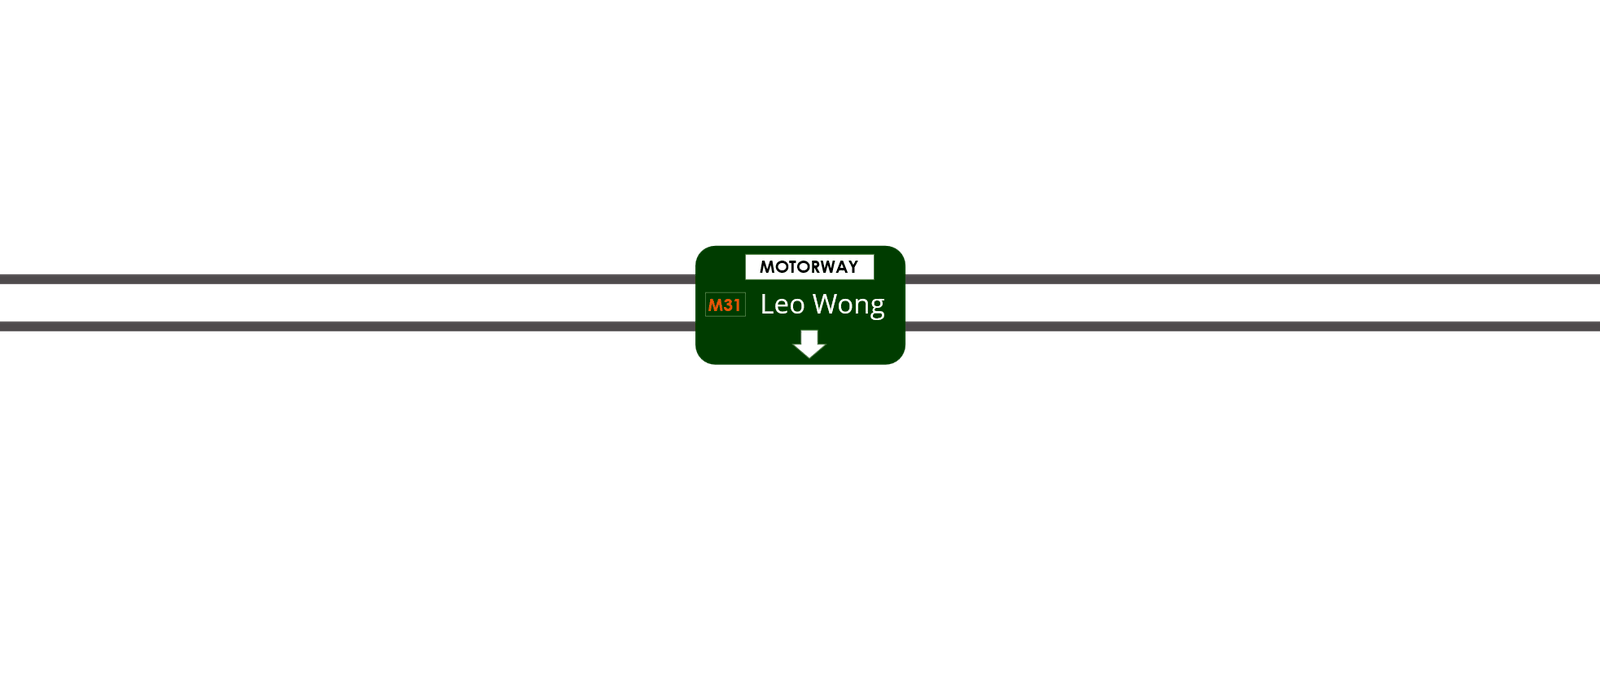
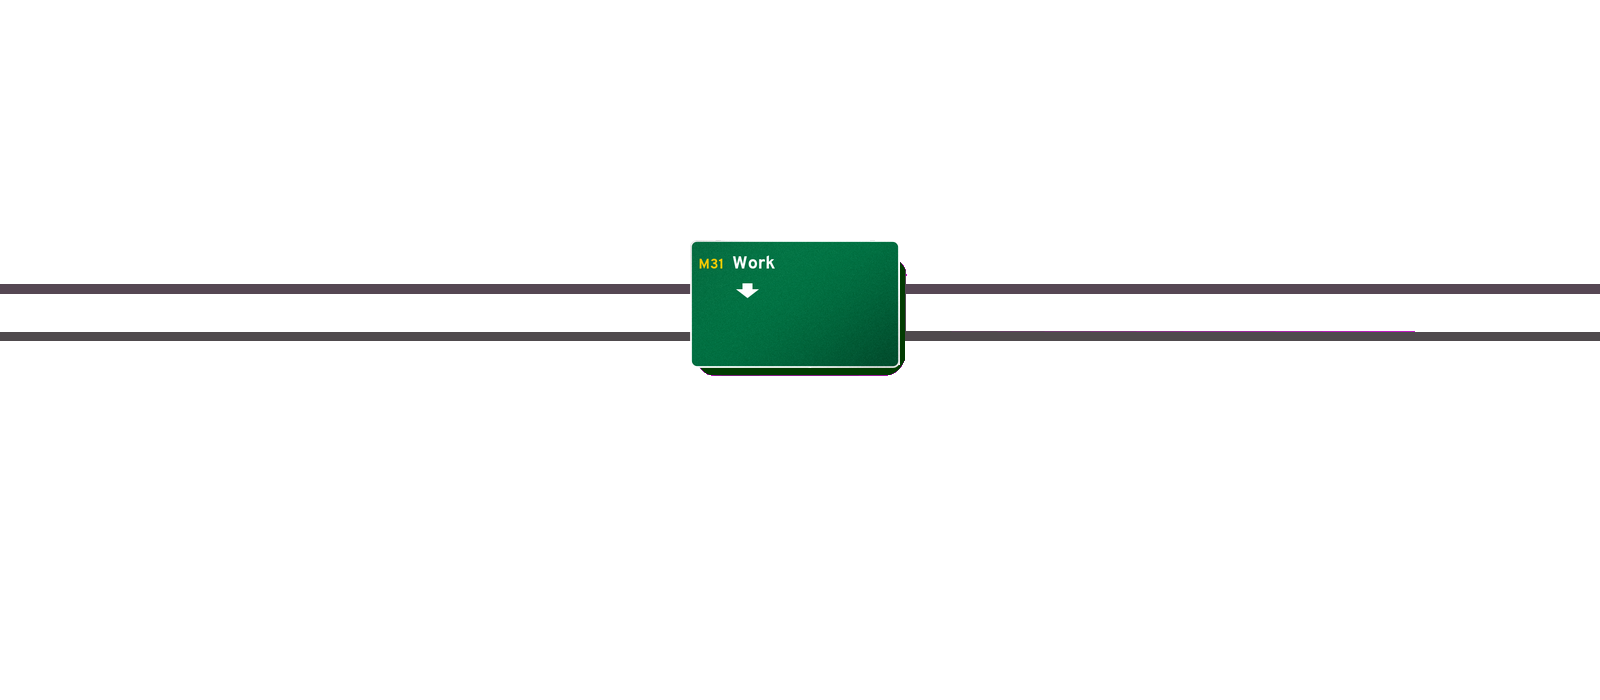
Smooth the original scene, real NSW signs, and a taller cabin.
Vectorise the bootcamp mountain/motorway/road layers for crisp 1×/2×
WebP+PNG, redraw the gantry and roadside signs as AS 1742-style TfNSW
green plates (Work with yellow M31, Sydney 1 km), and replace only the
car layer with a wide MPV cabin in the same flat RHD palette. Parallax
travel is deeper with scale on near layers; the frosted full-bleed header
is unchanged. Sign words are paint in the art, not links — header nav
still carries About / Work / Contact.

Changed region(s): [[0.0, 0.3397, 1.0, 0.5559]]

diff --git a/src/Scene.tsx b/src/Scene.tsx
@@ -1,10 +1,78 @@
-import { motion, useReducedMotion, useScroll, useTransform } from "motion/react";
+import {
+  motion,
+  useReducedMotion,
+  useScroll,
+  useTransform,
+  type MotionValue,
+} from "motion/react";
 import { useState, type RefObject } from "react";
 
-const mountain = "/bg/mountain.png";
-const motorway = "/bg/motorway.png";
-const roadArt = "/bg/road.png";
-const carArt = "/bg/car.png";
+type LayerSources = {
+  readonly webp: string;
+  readonly webp2x: string;
+  readonly png: string;
+  readonly png2x: string;
+};
+
+const mountain: LayerSources = {
+  webp: "/bg/mountain.webp",
+  webp2x: "/bg/mountain@2x.webp",
+  png: "/bg/mountain.png",
+  png2x: "/bg/mountain@2x.png",
+};
+const motorway: LayerSources = {
+  webp: "/bg/motorway.webp",
+  webp2x: "/bg/motorway@2x.webp",
+  png: "/bg/motorway.png",
+  png2x: "/bg/motorway@2x.png",
+};
+const roadArt: LayerSources = {
+  webp: "/bg/road.webp",
+  webp2x: "/bg/road@2x.webp",
+  png: "/bg/road.png",
+  png2x: "/bg/road@2x.png",
+};
+const carArt: LayerSources = {
+  webp: "/bg/car.webp",
+  webp2x: "/bg/car@2x.webp",
+  png: "/bg/car.png",
+  png2x: "/bg/car@2x.png",
+};
+
+function SceneLayer({
+  sources,
+  y,
+  scale,
+  extend,
+}: {
+  sources: LayerSources;
+  y: MotionValue<number>;
+  scale?: MotionValue<number>;
+  extend?: boolean;
+}) {
+  return (
+    <motion.div
+      className="scene-layer"
+      style={scale !== undefined ? { y, scale } : { y }}>
+      <picture>
+        <source
+          type="image/webp"
+          srcSet={`${sources.webp} 1x, ${sources.webp2x} 2x`}
+        />
+        <img
+          src={sources.png}
+          srcSet={`${sources.png} 1x, ${sources.png2x} 2x`}
+          width={1600}
+          height={700}
+          alt=""
+          decoding="async"
+          draggable={false}
+        />
+      </picture>
+      {extend ? <span className="scene-car-extend" aria-hidden="true" /> : null}
+    </motion.div>
+  );
+}
 
 export function Scene({ target }: { target: RefObject<HTMLElement | null> }) {
   const reduce = useReducedMotion() === true;
@@ -14,18 +82,22 @@ export function Scene({ target }: { target: RefObject<HTMLElement | null> }) {
     offset: ["start start", "end start"],
   });
   const still = reduce || stopped ? 0 : 1;
-  const far = useTransform(scrollYProgress, [0, 1], [0, -80 * still]);
-  const sign = useTransform(scrollYProgress, [0, 1], [0, -160 * still]);
-  const road = useTransform(scrollYProgress, [0, 1], [0, -260 * still]);
-  const car = useTransform(scrollYProgress, [0, 1], [0, -380 * still]);
+  // Dramatic depth: mountain slowest, car fastest; slight scale on near layers.
+  const far = useTransform(scrollYProgress, [0, 1], [0, -120 * still]);
+  const farScale = useTransform(scrollYProgress, [0, 1], [1, 1 + 0.03 * still]);
+  const sign = useTransform(scrollYProgress, [0, 1], [0, -300 * still]);
+  const road = useTransform(scrollYProgress, [0, 1], [0, -520 * still]);
+  const roadScale = useTransform(scrollYProgress, [0, 1], [1, 1 + 0.06 * still]);
+  const car = useTransform(scrollYProgress, [0, 1], [0, -720 * still]);
+  const carScale = useTransform(scrollYProgress, [0, 1], [1, 1 + 0.08 * still]);
 
   return (
     <div className="illustration">
       <div className="scene" aria-hidden="true">
-        <motion.img src={mountain} alt="" style={{ y: far }} />
-        <motion.img src={motorway} alt="" style={{ y: sign }} />
-        <motion.img src={roadArt} alt="" style={{ y: road }} />
-        <motion.img src={carArt} alt="" style={{ y: car }} />
+        <SceneLayer sources={mountain} y={far} scale={farScale} />
+        <SceneLayer sources={motorway} y={sign} />
+        <SceneLayer sources={roadArt} y={road} scale={roadScale} />
+        <SceneLayer sources={carArt} y={car} scale={carScale} extend />
       </div>
       {reduce ? null : (
         <button

diff --git a/src/styles.css b/src/styles.css
@@ -199,7 +199,7 @@ section {
   margin-left: calc(50% - 50vw);
   margin-right: calc(50% - 50vw);
   padding-top: 0;
-  background: #7eb7d4;
+  background: #9eb8c9;
   overflow: hidden;
 }
 
@@ -209,24 +209,61 @@ section {
 
 .scene {
   position: relative;
-  /* Drop the old 32rem height cap so layers have room to travel. */
   height: min(78vh, 48rem);
   min-height: 18rem;
   overflow: hidden;
+  background: #28292e;
 }
 
-.scene img {
+.scene-layer {
   position: absolute;
-  /* Wider than the viewport; overflow:hidden clips. Overrides global img max-width. */
   left: 50%;
-  top: -22%;
-  width: 140%;
+  top: -28%;
+  width: 135%;
   max-width: none;
-  height: 155%;
-  margin-left: -70%;
-  /* cover keeps each layer's aspect ratio while they stay aligned. */
+  height: 170%;
+  margin-left: -67.5%;
+  transform-origin: center 60%;
+}
+
+.scene-layer picture,
+.scene-layer img {
+  display: block;
+  width: 100%;
+  height: 100%;
+  max-width: none;
+}
+
+.scene-layer img {
   object-fit: cover;
-  object-position: center 40%;
+  object-position: center 30%;
+}
+
+.scene-car-extend {
+  position: absolute;
+  left: 0;
+  right: 0;
+  top: 100%;
+  height: 780px;
+  background: #28292e;
+}
+
+@media (max-width: 700px) {
+  .scene {
+    height: min(58vw, 40vh, 20rem);
+    min-height: 13rem;
+  }
+
+  .scene-layer {
+    top: -16%;
+    width: 112%;
+    height: 145%;
+    margin-left: -56%;
+  }
+
+  .scene-layer img {
+    object-position: 46% 28%;
+  }
 }
 
 .motion-toggle {
@@ -245,7 +282,7 @@ section {
 }
 
 @media (prefers-reduced-motion: reduce) {
-  .scene img {
+  .scene-layer {
     transform: none !important;
   }
 }

diff --git a/e2e/site.spec.ts b/e2e/site.spec.ts
@@ -36,7 +36,10 @@ test.describe("reduced motion", () => {
     await expect(page.getByRole("heading", { level: 1 })).toHaveText("Leo Wong");
     const car = page.locator(".scene img[src='/bg/car.png']");
     await expect(car).toBeAttached();
-    await expect(car).toHaveCSS("transform", "none");
+    const carLayer = page.locator(".scene-layer").filter({
+      has: page.locator("img[src='/bg/car.png']"),
+    });
+    await expect(carLayer).toHaveCSS("transform", "none");
   });
 });
 
